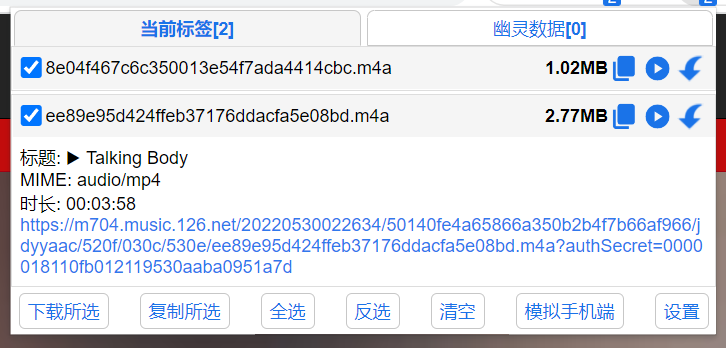
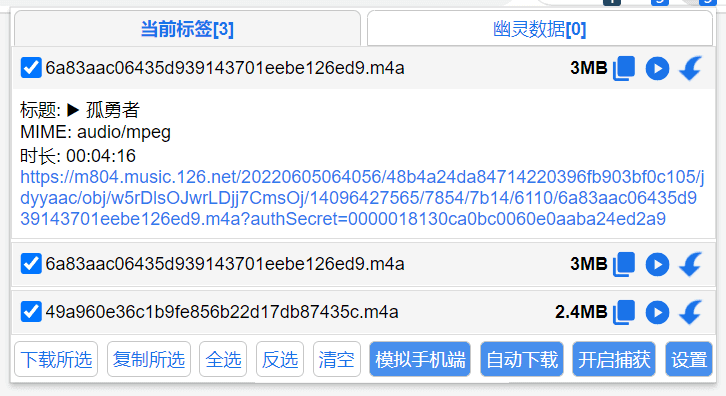
💎style

diff --git a/js/catch.js b/js/catch.js
@@ -23,7 +23,7 @@
         display: flex;
         align-items: center;
         justify-content: space-evenly;`;
[2 lines of base64/hex data omitted]
     document.getElementsByTagName('html')[0].appendChild(cat);
 
     // 操作按钮
@@ -78,7 +78,11 @@
 
     // 下载资源
     function catchDownload() {
-        if(isComplete || confirm("提前下载可能会导致视频无法播放，确定下载吗？")){
+        if (catchMedia.length == 0) {
+            alert("没抓到有效数据");
+            return;
+        }
+        if (isComplete || confirm("提前下载可能会导致视频无法播放，确定下载吗？")) {
             for (let item of catchMedia) {
                 let mime = item.mimeType.split(';')[0];
                 let type = mime.split('/')[1];
@@ -89,7 +93,7 @@
                 a.click();
                 a.remove();
             }
-            if(isComplete){
+            if (isComplete) {
                 catchMedia = [];
                 isComplete = false;
             }

diff --git a/js/popup.js b/js/popup.js
@@ -240,13 +240,21 @@ $(function () {
         return false;
     });
 
-    // 模拟手机端
-    chrome.runtime.sendMessage({ Message: "mobileUserAgent", tabId: G.tabId }, function (state) {
-        if (state) {
+    // 获取模拟手机 自动下载 捕获 状态
+    chrome.runtime.sendMessage({ Message: "getButtonState", tabId: G.tabId }, function (state) {
+        if (state.mobile) {
             $("#MobileUserAgent").html("关闭手机模拟");
             $("#MobileUserAgent").data("switch", "off");
         }
+        if (state.autodown) {
+            Tips("已关闭自动下载", 500);
+        }
+        if (state.catch) {
+            $("#Catch").html("停止捕获");
+            $("#Catch").data("switch", "off");
+        }
     });
+    // 模拟手机端
     $("#MobileUserAgent").click(function () {
         let action = $(this).data("switch");
         if (action == "on") {
@@ -261,11 +269,6 @@ $(function () {
         });
     });
     // 自动下载
-    chrome.runtime.sendMessage({ Message: "autoDown", tabId: G.tabId }, function (state) {
-        if (state) {
-            Tips("已关闭自动下载", 500);
-        }
-    });
     $("#AutoDown").click(function () {
         let action = $(this).data("switch");
         if (action == "on") {
@@ -282,16 +285,10 @@ $(function () {
     });
 
     // 捕获
-    chrome.runtime.sendMessage({ Message: "catch", tabId: G.tabId }, function (state) {
-        if (state) {
-            $("#Catch").html("停止捕获");
-            $("#Catch").data("switch", "off");
-        }
-    });
     $("#Catch").click(function () {
         let action = $(this).data("switch");
         if (action == "on") {
-            if (confirm("开启后会刷新网页并开始监听捕获视频\n媒体可能会被分成音频和视频，请使用第三方软件合并\n是否确认开启？")) {
+            if (confirm("能够一边播放一边保存数据\n媒体可能会被分成音频和视频\n请注意浏览器提示下载多个文件\n最后使用第三方软件合并\n是否确认开启？")) {
                 $("#Catch").html("关闭捕获");
                 $("#Catch").data("switch", "off");
                 $('#Clear').click();

diff --git a/js/background.js b/js/background.js
@@ -177,31 +177,28 @@ chrome.runtime.onMessage.addListener(function (Message, sender, sendResponse) {
         }
         return;
     }
+    if (Message.Message == "getButtonState") {
+        let state = {
+            mobile: G.TabIdList.Mobile.includes(Message.tabId),
+            autodown: tabIdListRemove("AutoDown", Message.tabId), // 点击图标 立刻停止下载
+            catch: G.TabIdList.Catch.includes(Message.tabId)
+        }
+        sendResponse(state);
+        return;
+    }
     // 模拟手机
     if (Message.Message == "mobileUserAgent") {
-        if (Message.action == undefined) {
-            sendResponse(G.TabIdList.Mobile.includes(Message.tabId));
-            return;
-        }
         Message.action == "on" ? mobileUserAgent(Message.tabId, true) : mobileUserAgent(Message.tabId);
         chrome.tabs.reload(Message.tabId, { bypassCache: true });
         return;
     }
     // 自动下载
     if (Message.Message == "autoDown") {
-        if (Message.action == undefined) {
-            // 点击图标 立刻停止下载
-            sendResponse(tabIdListRemove("AutoDown", Message.tabId));
-        }
         Message.action == "on" ? G.TabIdList.AutoDown.push(Message.tabId) : tabIdListRemove("AutoDown", Message.tabId);
         return;
     }
     // 捕获
     if (Message.Message == "catch") {
-        if (Message.action == undefined) {
-            sendResponse(G.TabIdList.Catch.includes(Message.tabId));
-            return;
-        }
         Message.action == "on" ? G.TabIdList.Catch.push(Message.tabId) : tabIdListRemove("Catch", Message.tabId);
         chrome.tabs.reload(Message.tabId, { bypassCache: true });
         return;
